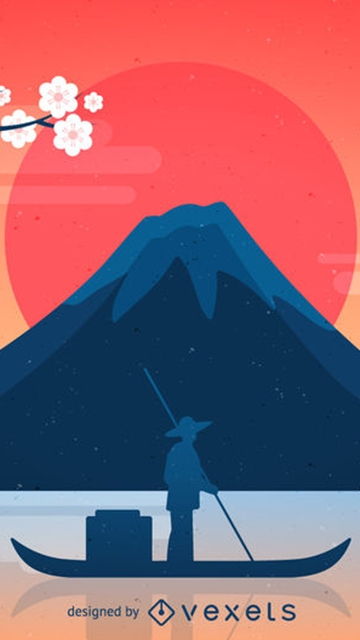
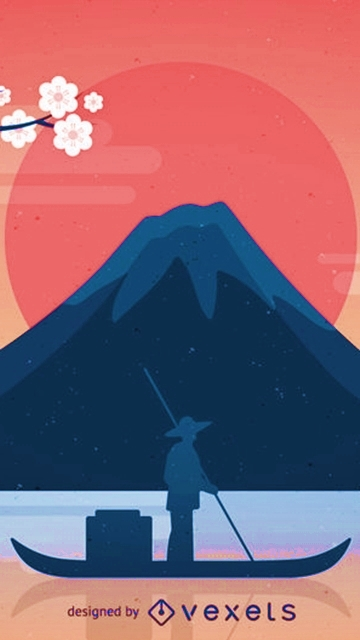
Change The Code Hierarchy
- Uses polymorphism for every existing button
- Changed Background color saturation
- Fixes some code bug
- Have a nice try :)

diff --git a/wxF Core Draw/MainWindow.cpp b/wxF Core Draw/MainWindow.cpp
@@ -27,26 +27,6 @@ void MainWindow::LoadBackgroundMenu()
 	this->backgroundMenu = new wxBitmap(image);
 }
 
-void MainWindow::LoadPlayButton()
-{
-	wxStandardPaths &stdPaths = wxStandardPaths::Get();
-	wxString fileLocation = stdPaths.GetExecutablePath();
-	fileLocation = wxFileName(fileLocation).GetPath() + wxT("\\..\\Asset\\Play-Button-Icon-new.png");
-	wxImage image(fileLocation, wxBITMAP_TYPE_PNG);
-
-	this->playButton1 = new wxBitmap(image);
-}
-
-void MainWindow::LoadAboutButton()
-{
-	wxStandardPaths &stdPaths = wxStandardPaths::Get();
-	wxString fileLocation = stdPaths.GetExecutablePath();
-	fileLocation = wxFileName(fileLocation).GetPath() + wxT("\\..\\Asset\\About-Button-Icon-new.png");
-	wxImage image(fileLocation, wxBITMAP_TYPE_PNG);
-
-	this->aboutButton1 = new wxBitmap(image);
-}
-
 MainWindow::MainWindow(SwitchFrame * parent)
 	: wxWindow(parent, wxID_ANY), parentFrame(parent)
 {
@@ -60,15 +40,32 @@ MainWindow::MainWindow(SwitchFrame * parent)
 
 	wxClientDC dc(this);
 
+	// -- DEFINING THE BUTTON -- //
+	this->playBtn = new PlayButton();
+	this->aboutBtn = new AboutButton();
+
+	// -- LOAD THE LOGO AND THE BACKGROUND -- //
 	this->LoadBackgroundMenu();
 	this->LoadImageLogo();
-	this->LoadPlayButton();
-	this->LoadAboutButton();
 }
 
 void MainWindow::OnMouseLeftDown(wxMouseEvent & event)
 {
-	
+	int mouseX = event.GetX(), mouseY = event.GetY();
+
+	// -- Check if the mouse in the Play Button position -- //
+	if (playBtn != nullptr) {
+		if (playBtn->checkMouse(mouseX, mouseY))
+			parentFrame->ShowGameWindow();
+			//wxMessageOutputDebug().Printf("%s", "Play button clicked");
+	}
+
+	// -- Check if the mouse in the About Button position -- //
+	if (aboutBtn != nullptr) {
+		if (aboutBtn->checkMouse(mouseX, mouseY))
+			wxMessageBox(wxT("Karamasu The Game"), wxT("About this Game"));
+			//wxMessageOutputDebug().Printf("%s", "About button clicked");
+	}	
 }
 
 void MainWindow::OnPaint(wxPaintEvent & event)
@@ -80,16 +77,12 @@ void MainWindow::OnPaint(wxPaintEvent & event)
 	if (logo != nullptr) {
 		pdc.DrawBitmap(*logo, wxPoint(30, 50), true); // y = 37
 	}
-	if (this->playButton1 != nullptr) {
-		pdc.DrawBitmap(*playButton1, wxPoint(95, 200), true);
+	if (playBtn != nullptr) {
+		playBtn->DrawButton(pdc);
 	}
-	if (this->aboutButton1 != nullptr) {
-		pdc.DrawBitmap(*aboutButton1, wxPoint(95, 410), true);
+	if (aboutBtn != nullptr) {
+		aboutBtn->DrawButton(pdc);
 	}
-
-	//this->playButton = new wxButton(this, 1002, wxT("PLAY"), wxPoint(125, 350), wxDefaultSize); // y - 30 390
-	////this->aboutButton = new wxButton(this, wxID_ANY, wxT("ABOUT"), wxPoint(125, 425), wxDefaultSize);
-	//this->aboutButton = new wxButton(this, 1001, wxT("ABOUT"), wxPoint(125, 395), wxDefaultSize); // y 425
 }
 
 MainWindow::~MainWindow()

diff --git a/wxF Core Draw/AboutButton.cpp b/wxF Core Draw/AboutButton.cpp
@@ -1,0 +1,38 @@
+#include "AboutButton.h"
+#include "wx/stdpaths.h"
+#include "wx/filename.h"
+
+AboutButton::AboutButton()
+{
+	wxStandardPaths &stdPaths = wxStandardPaths::Get();
+	wxString fileLocation = stdPaths.GetExecutablePath();
+	fileLocation = wxFileName(fileLocation).GetPath() + wxT("\\..\\Asset\\About-Button-Icon-new.png");
+	wxImage image(fileLocation, wxBITMAP_TYPE_PNG);
+
+	this->width = image.GetWidth();
+	this->height = image.GetHeight();
+	this->x = 95;
+	this->y = 410;
+
+	this->aboutButtonImage = new wxBitmap(image);
+}
+
+
+AboutButton::~AboutButton()
+{
+}
+
+bool AboutButton::checkMouse(int x, int y)
+{
+	if (this->x <= x && x <= this->x + this->width) {
+		if (this->y <= y && y <= this->y + this->height) {
+			return true;
+		}
+	}
+	return false;
+}
+
+void AboutButton::DrawButton(wxPaintDC & pdc)
+{
+	pdc.DrawBitmap(*aboutButtonImage, wxPoint(this->x, this->y), true);
+}

diff --git a/wxF Core Draw/PlayButton.cpp b/wxF Core Draw/PlayButton.cpp
@@ -1,0 +1,37 @@
+#include "PlayButton.h"
+#include "wx/stdpaths.h"
+#include "wx/filename.h"
+
+PlayButton::PlayButton()
+{
+	wxStandardPaths &stdPaths = wxStandardPaths::Get();
+	wxString fileLocation = stdPaths.GetExecutablePath();
+	fileLocation = wxFileName(fileLocation).GetPath() + wxT("\\..\\Asset\\Play-Button-Icon-new.png");
+	wxImage image(fileLocation, wxBITMAP_TYPE_PNG);
+
+	this->width = image.GetWidth();
+	this->height = image.GetHeight();
+	this->x = 95;
+	this->y = 200;
+
+	this->playButtonImage = new wxBitmap(image);
+}
+
+PlayButton::~PlayButton()
+{
+}
+
+bool PlayButton::checkMouse(int x, int y)
+{
+	if (this->x <= x && x <= this->x + this->width) {
+		if (this->y <= y && y <= this->y + this->height) {
+			return true;
+		}
+	}
+	return false;
+}
+
+void PlayButton::DrawButton(wxPaintDC & pdc)
+{
+	pdc.DrawBitmap(*playButtonImage, wxPoint(this->x, this->y), true);
+}

diff --git a/wxF Core Draw/MainWindow.h b/wxF Core Draw/MainWindow.h
@@ -1,6 +1,9 @@
 #pragma once
 #include "wx/wx.h"
 #include "SwitchFrame.h"
+#include "Button.h"
+#include "PlayButton.h"
+#include "AboutButton.h"
 
 class MainWindow :
 	public wxWindow
@@ -8,15 +11,15 @@ class MainWindow :
 private:
 	wxBitmap *logo;
 	wxBitmap *backgroundMenu;
-	wxButton *playButton;
-	wxBitmap *playButton1;
-	wxBitmap *aboutButton1;
-	wxButton *aboutButton;
+	
 	void LoadImageLogo();
 	void LoadBackgroundMenu();
-	void LoadPlayButton();
-	void LoadAboutButton();
+	
 	SwitchFrame *parentFrame;
+
+	Button *playBtn;
+	Button *aboutBtn;
+	//wxTimer *timer;
 
 public:
 	MainWindow(SwitchFrame *parent);

diff --git a/wxF Core Draw/Button.h b/wxF Core Draw/Button.h
@@ -1,0 +1,16 @@
+#pragma once
+#include "wx/wx.h"
+#include "SwitchFrame.h"
+
+class Button
+{
+public:
+	Button();
+	~Button();
+	virtual bool checkMouse(int x, int y) = 0;
+	virtual void DrawButton(wxPaintDC &pdc) = 0;
+	SwitchFrame *appFrame;
+	
+	int width, height, x, y;
+};
+

diff --git a/wxF Core Draw/AboutButton.h b/wxF Core Draw/AboutButton.h
@@ -1,0 +1,15 @@
+#pragma once
+#include "Button.h"
+class AboutButton :
+	public Button
+{
+private:
+	wxBitmap *aboutButtonImage;
+
+public:
+	AboutButton();
+	~AboutButton();
+	virtual bool checkMouse(int x, int y);
+	virtual void DrawButton(wxPaintDC &pdc);
+};
+

diff --git a/wxF Core Draw/PlayButton.h b/wxF Core Draw/PlayButton.h
@@ -1,0 +1,16 @@
+#pragma once
+#include "Button.h"
+
+class PlayButton :
+	public Button
+{
+private:
+	wxBitmap *playButtonImage;
+
+public:
+	PlayButton();
+	~PlayButton();
+	virtual bool checkMouse(int x, int y);
+	virtual void DrawButton(wxPaintDC &pdc);
+};
+

diff --git a/wxF Core Draw/SwitchFrame.cpp b/wxF Core Draw/SwitchFrame.cpp
@@ -7,6 +7,7 @@ void SwitchFrame::fitWindowSize()
 	this->boxSizer->Fit(this);
 	this->boxSizer->SetSizeHints(this);
 	this->SetSize(wxSize(360, 640));
+	this->SetSizeHints(wxSize(360, 640), wxSize(360, 640));
 	this->Layout();
 }
 

diff --git a/wxF Core Draw/Main.cpp b/wxF Core Draw/Main.cpp
@@ -17,7 +17,7 @@ bool MainApp::OnInit() {
 	
 	SwitchFrame *frame = new SwitchFrame(wxT("THE GAME"));
 	frame->Show(true);
-	frame->ShowGameWindow();
+	//frame->ShowGameWindow();
 	return true;
 }
 

diff --git a/wxF Core Draw/Button.cpp b/wxF Core Draw/Button.cpp
@@ -1,0 +1,13 @@
+#include "Button.h"
+
+
+
+Button::Button()
+{
+	
+}
+
+
+Button::~Button()
+{
+}
